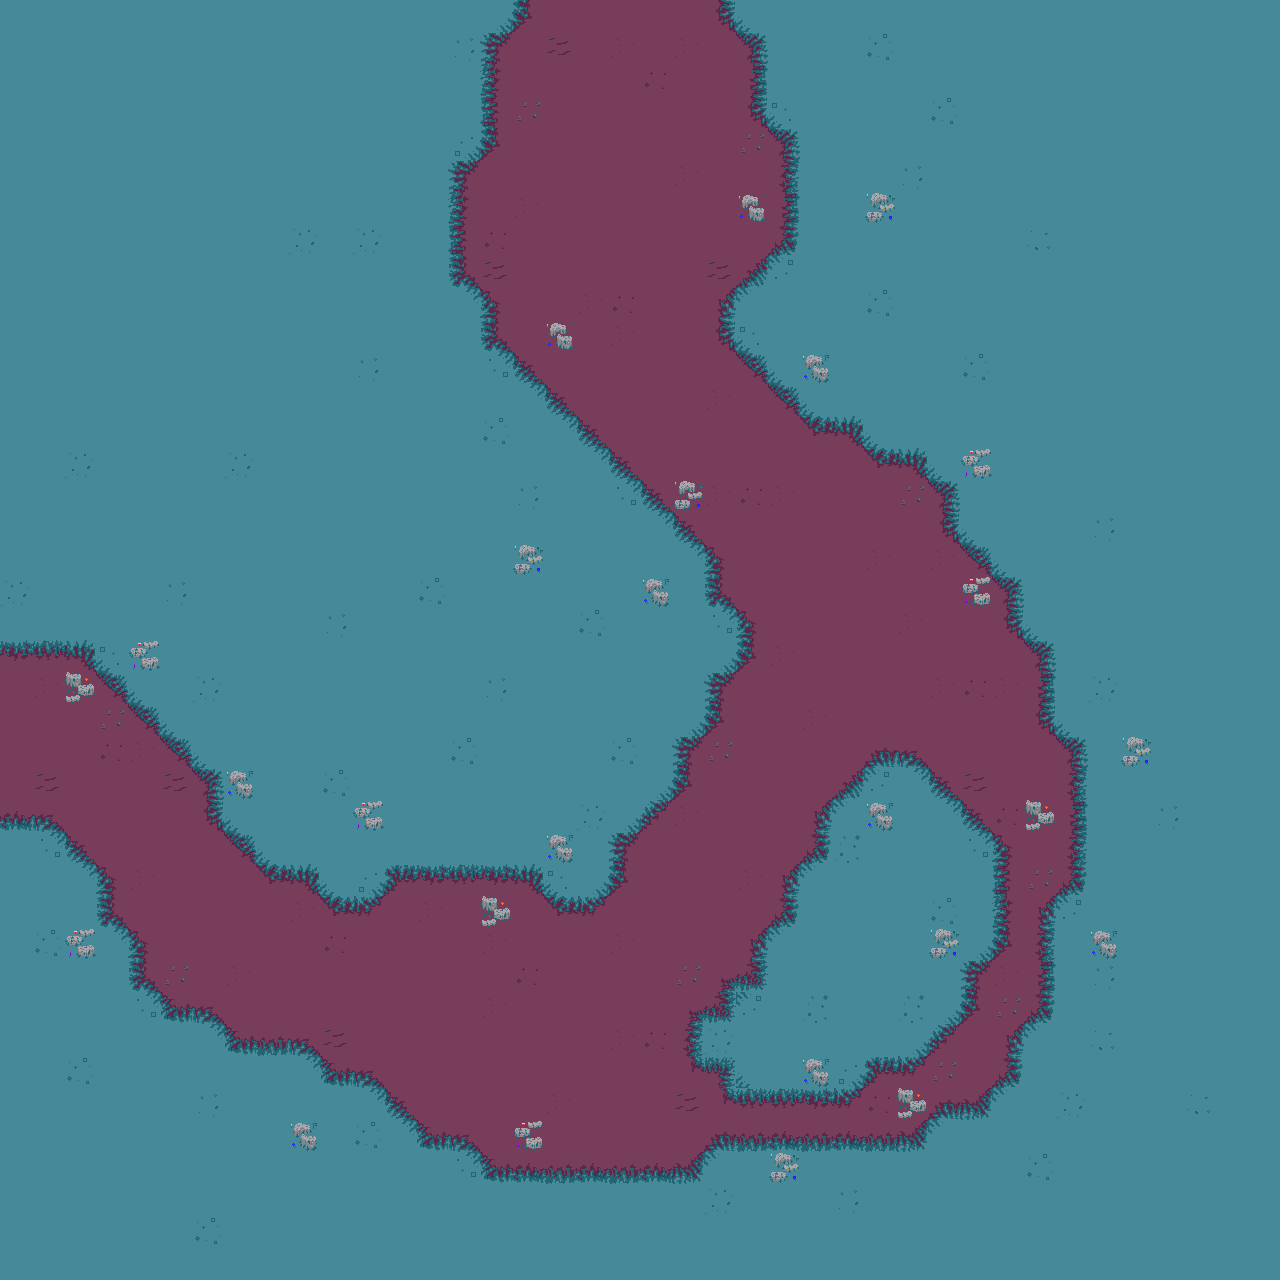
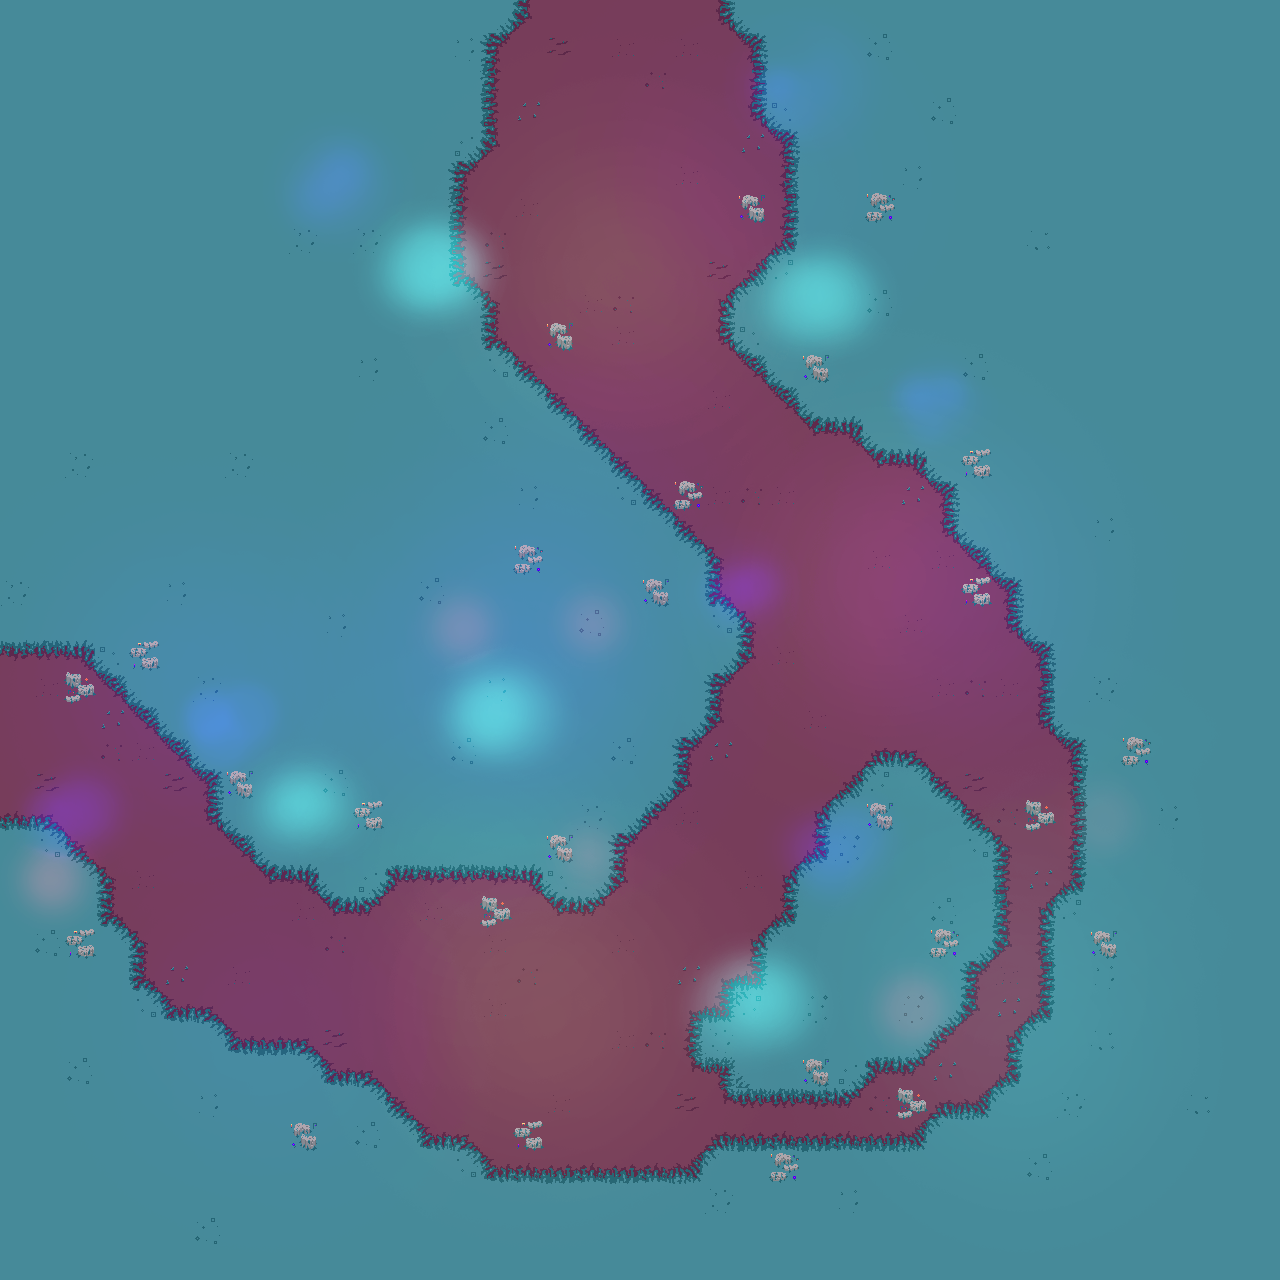
Added map 8

diff --git a/src/WorldState.cpp b/src/WorldState.cpp
@@ -155,7 +155,7 @@ void WorldState::Start() {
     vector<string> m3 = { "map/3/ground.png", "map/3/rocks.png" };
     vector<string> m4 = { "map/4/ground.png", "map/4/rocks.png" };
     vector<string> m5 = { "map/5/ground.png", "map/5/rocks.png" };
-    vector<string> m8 = { "map/8/ground.png", "map/8/rocks.png" };
+    vector<string> m8 = { "map/9/ground.png", "map/8/rocks.png", "map/8/trees.png", "map/8/surroundings.png", "map/8/lighting.png", "map/8/vines.png" };
     vector<string> m9 = { "map/9/ground.png", "map/9/rocks.png", "map/9/trees.png", "map/9/surroundings.png", "map/9/lighting.png", "map/9/view.png", "map/9/vine.png" };
     maps.emplace_back(m1, Map::MapDirection::DOWN, "map/1/collisionMap.txt", "map/1/terrainMap.txt");
     maps.emplace_back(m2, Map::MapDirection::DOWN, "map/2/collisionMap.txt", "map/2/terrainMap.txt");
